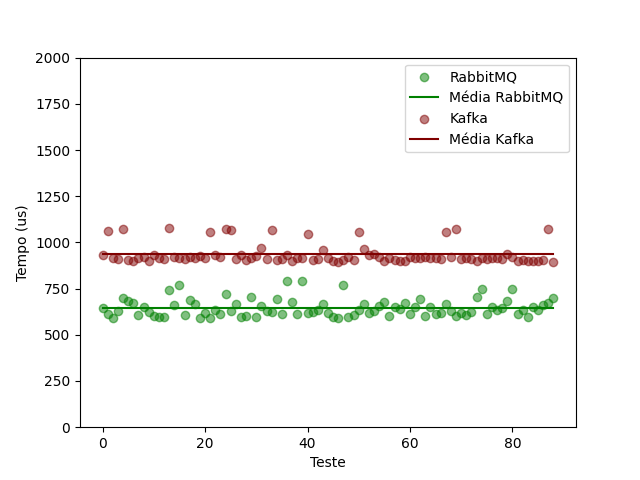
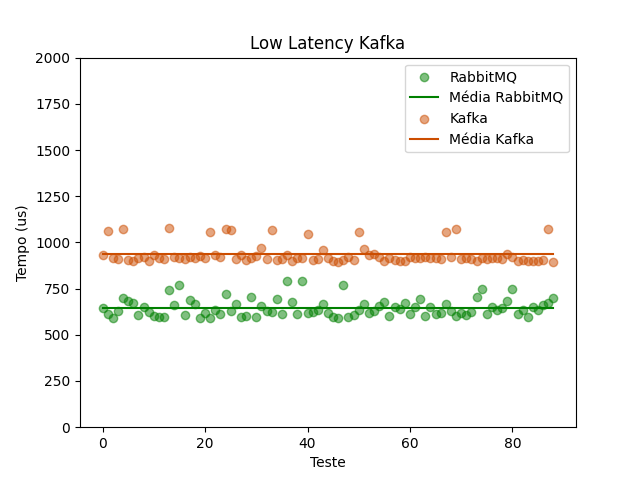
new images

diff --git a/consumer/data/data_processing.py b/consumer/data/data_processing.py
@@ -17,7 +17,7 @@ def convert_data_to_csv(
     test_type: str = "rabbitmq_2consumer",
     source_path: Path = DATA_DIR / "rabbitmq_2consumer",
     dest_path: Path = DATA_DIR / "rabbitmq_2consumer",
-    ):
+):
     files = source_path.glob("*.txt")
     data = {"test": [], "packet": [], "time": []}
     for test, file in enumerate(files):
@@ -33,11 +33,37 @@ def convert_data_to_csv(
     pd.DataFrame(data).to_csv(dest_path / f"results_{now}.csv")
 
 
+def plot_hists(
+    test_configs: List[tuple],
+    legend: List[str],
+    colors: List[tuple],
+    time_limit=None,
+):
+    for i, test_config in enumerate(test_configs):
+        broker, consumers, config = test_config
+        test_str = f"{broker}_{consumers}consumer_{config}"
+        file = sorted(list((DATA_DIR / test_str).glob("**/*.csv")), key=lambda p: p.stem, reverse=True)[0]
+        df = pd.read_csv(file)
+        time_limit = df["time"].mean() + df["time"].std() if time_limit is None else time_limit
+        times = df['time']
+        times = times[times < time_limit]
+        # plt.clf()
+        # ax = times.hist(bins=200)
+        sns.kdeplot(times, fill=True, color=colors[i])
+
+    plt.xlabel("Tempo (us)")
+    plt.ylabel("Densidade")
+    plt.legend(legend)
+    # plt.title(broker.capitalize())
+    plt.xlim((0, time_limit))
+    plt.savefig(IMAGE_DIR / f"times_hists.png")
+
+
 def plot_hist(
     consumers: int,
     broker: str,
     config: str,
-    time_limit = None,
+    time_limit=None,
 ):
     test_str = f"{broker}_{consumers}consumer_{config}"
     file = sorted(list((DATA_DIR / test_str).glob("**/*.csv")), key=lambda p: p.stem, reverse=True)[0]
@@ -55,28 +81,31 @@ def plot_hist(
     plt.savefig(IMAGE_DIR / f"times_hist_{test_str}.png")
 
 
-def plot_average(kafka_averages: np.ndarray, rabbitmq_averages: np.ndarray, test_type: str, title: str):
+def plot_average(
+    kafka_averages: np.ndarray,
+    rabbitmq_averages: np.ndarray,
+    test_type: str,
+    title: str,
+    rmq_color=(0, 0.5, 0),
+    kafka_color=(0.5, 0, 0)
+):
 
     max_tests = min([len(rabbitmq_averages), len(kafka_averages)])
-    max_tests = max_tests if max_tests < 100 else 100
+    max_tests = min(max_tests, 100)
     rabbitmq_averages = rabbitmq_averages[:max_tests]
     kafka_averages = kafka_averages[:max_tests]
 
     packets = list(range(max_tests))
-    rmq_color = (0, 0.5, 0)
-    kafka_color = (0.5, 0, 0)
     plt.clf()
     plt.scatter(packets, rabbitmq_averages, color=rmq_color, alpha=0.5)
-    plt.plot(packets, rabbitmq_averages.mean() *
-             np.ones((len(packets))), color=rmq_color)
+    plt.plot(packets, rabbitmq_averages.mean() * np.ones((len(packets))), color=rmq_color)
     plt.scatter(packets, kafka_averages, color=kafka_color, alpha=0.5)
-    plt.plot(packets, kafka_averages.mean() *
-             np.ones((len(packets))), color=kafka_color)
+    plt.plot(packets, kafka_averages.mean() * np.ones((len(packets))), color=kafka_color)
     plt.legend(["RabbitMQ", "Média RabbitMQ", "Kafka", "Média Kafka"])
     plt.xlabel("Teste")
     plt.ylim(0, 2000)
     plt.ylabel("Tempo (us)")
-    plt.title(title)                                   
+    plt.title(title)
     plt.savefig(IMAGE_DIR / f"compare_avgs_{test_type}.png")
     # plt.show()
 
@@ -110,8 +139,11 @@ def load_data(test_type: str) -> List[np.uint]:
     return time_lists
 
 
-def compare_kafka_with_rabbitmq(test_type: str = '2consumer', kafka_config: str = 'lowlatency'):
-
+def compare_kafka_with_rabbitmq(
+    test_type: str = '2consumer',
+    kafka_config: str = 'lowlatency',
+    plot=False
+):
 
     kafka_test = f'kafka_{test_type}_{kafka_config}'
     rabbitmq_test = f'rabbitmq_{test_type}_default'
@@ -134,10 +166,18 @@ def compare_kafka_with_rabbitmq(test_type: str = '2consumer', kafka_config: str 
     kafka_averages = remove_outliers(kafka_averages)
     rabbitmq_averages = remove_outliers(rabbitmq_averages)
 
-    # plot_time(rabbitmq_times[rabbitmq_worst], "rabbitqm")
-    title = "Low Latency Kafka" if kafka_config == "lowlatency" else "Default Kafka"
-    plot_average(kafka_averages, rabbitmq_averages, f"{test_type}_{kafka_config}", title)
-    return
+    print("-"*20)
+    print(test_type)
+    print(f"Kafka {kafka_config}: {kafka_averages.mean()}")
+    print(f"RabbitMQ: {rabbitmq_averages.mean()}")
+
+    if plot:
+        # plot_time(rabbitmq_times[rabbitmq_worst], "rabbitqm")
+        title = "Low Latency Kafka" if kafka_config == "lowlatency" else "Default Kafka"
+        kafka_color = (0.5, 0, 0) if kafka_config == "default" else (0.8, 0.3, 0)
+        plot_average(kafka_averages, rabbitmq_averages, f"{test_type}_{kafka_config}", title, kafka_color=kafka_color)
+
+    return rabbitmq_averages.mean(), kafka_averages.mean()
 
 
 def remove_outliers(values: np.ndarray) -> np.ndarray:
@@ -145,6 +185,7 @@ def remove_outliers(values: np.ndarray) -> np.ndarray:
     high_q = np.quantile(values, 0.95)
 
     return np.array([v for v in values if v > low_q and v < high_q])
+
 
 def plot_single_time():
 

diff --git a/main.py b/main.py
@@ -1,10 +1,11 @@
 
 from pathlib import Path
-from consumer.data.data_processing import compare_kafka_with_rabbitmq, convert_data_to_csv, plot_hist
+from consumer.data.data_processing import compare_kafka_with_rabbitmq, convert_data_to_csv, plot_hist, plot_hists
+import pandas as pd
 
 
 def save_data(test_type: tuple):
-    
+
     broker, consumers, config = test_type
     test_str = f"{broker}_{consumers}consumer_{config}"
 
@@ -21,6 +22,7 @@ def save_data(test_type: tuple):
         dest_path.mkdir(parents=True, exist_ok=True)
         convert_data_to_csv(f"{broker}_{consumers}consumer_{config}", source_path, dest_path)
 
+
 def main():
     # test_type = ("kafka", 1, "default")
     # test_type = ("kafka", 1, "lowlatency")
@@ -31,6 +33,14 @@ def main():
     # save_data(test_type)
     # return
 
+    # plot_hists(
+    #     [("rabbitmq", 1, "default"), ("kafka", 1, "default"), ("kafka", 1, "lowlatency")],
+    #     # [("rabbitmq", 2, "default"),  ("kafka", 2, "default"), ("kafka", 2, "lowlatency")],
+    #     ["RabbitMQ", "Kafka padrão", "Kafka baixa latência"],
+    #     [(0, 0.5, 0), (0.5, 0, 0), (0.8, 0.3, 0)]
+    # )
+    # return
+
     test_types = [
         ("kafka", 1, "default"),
         ("kafka", 1, "lowlatency"),
@@ -39,13 +49,20 @@ def main():
         ("rabbitmq", 1, "default"),
         ("rabbitmq", 2, "default"),
     ]
+    times_dict = {"consumers": [], "kafka_config": [], "kafka_time": [], "rabbitmq_time": []}
     for test_type in test_types:
         broker, consumers, config = test_type
         test_str = f"{broker}_{consumers}consumer_{config}"
         print(test_str)
-        compare_kafka_with_rabbitmq(f"{consumers}consumer", config)
-        plot_hist(consumers, broker, config, 2000)
+        rmq_time, kafka_time = compare_kafka_with_rabbitmq(f"{consumers}consumer", config)
+        times_dict["consumers"].append(consumers)
+        times_dict["kafka_config"].append(config)
+        times_dict["rabbitmq_time"].append(rmq_time)
+        times_dict["kafka_time"].append(kafka_time)
+
+    pd.DataFrame(times_dict).to_csv("consumer/data/times.csv")
+    # plot_hist(consumers, broker, config, 2000)
 
 
-if __name__=="__main__":
+if __name__ == "__main__":
     main()
